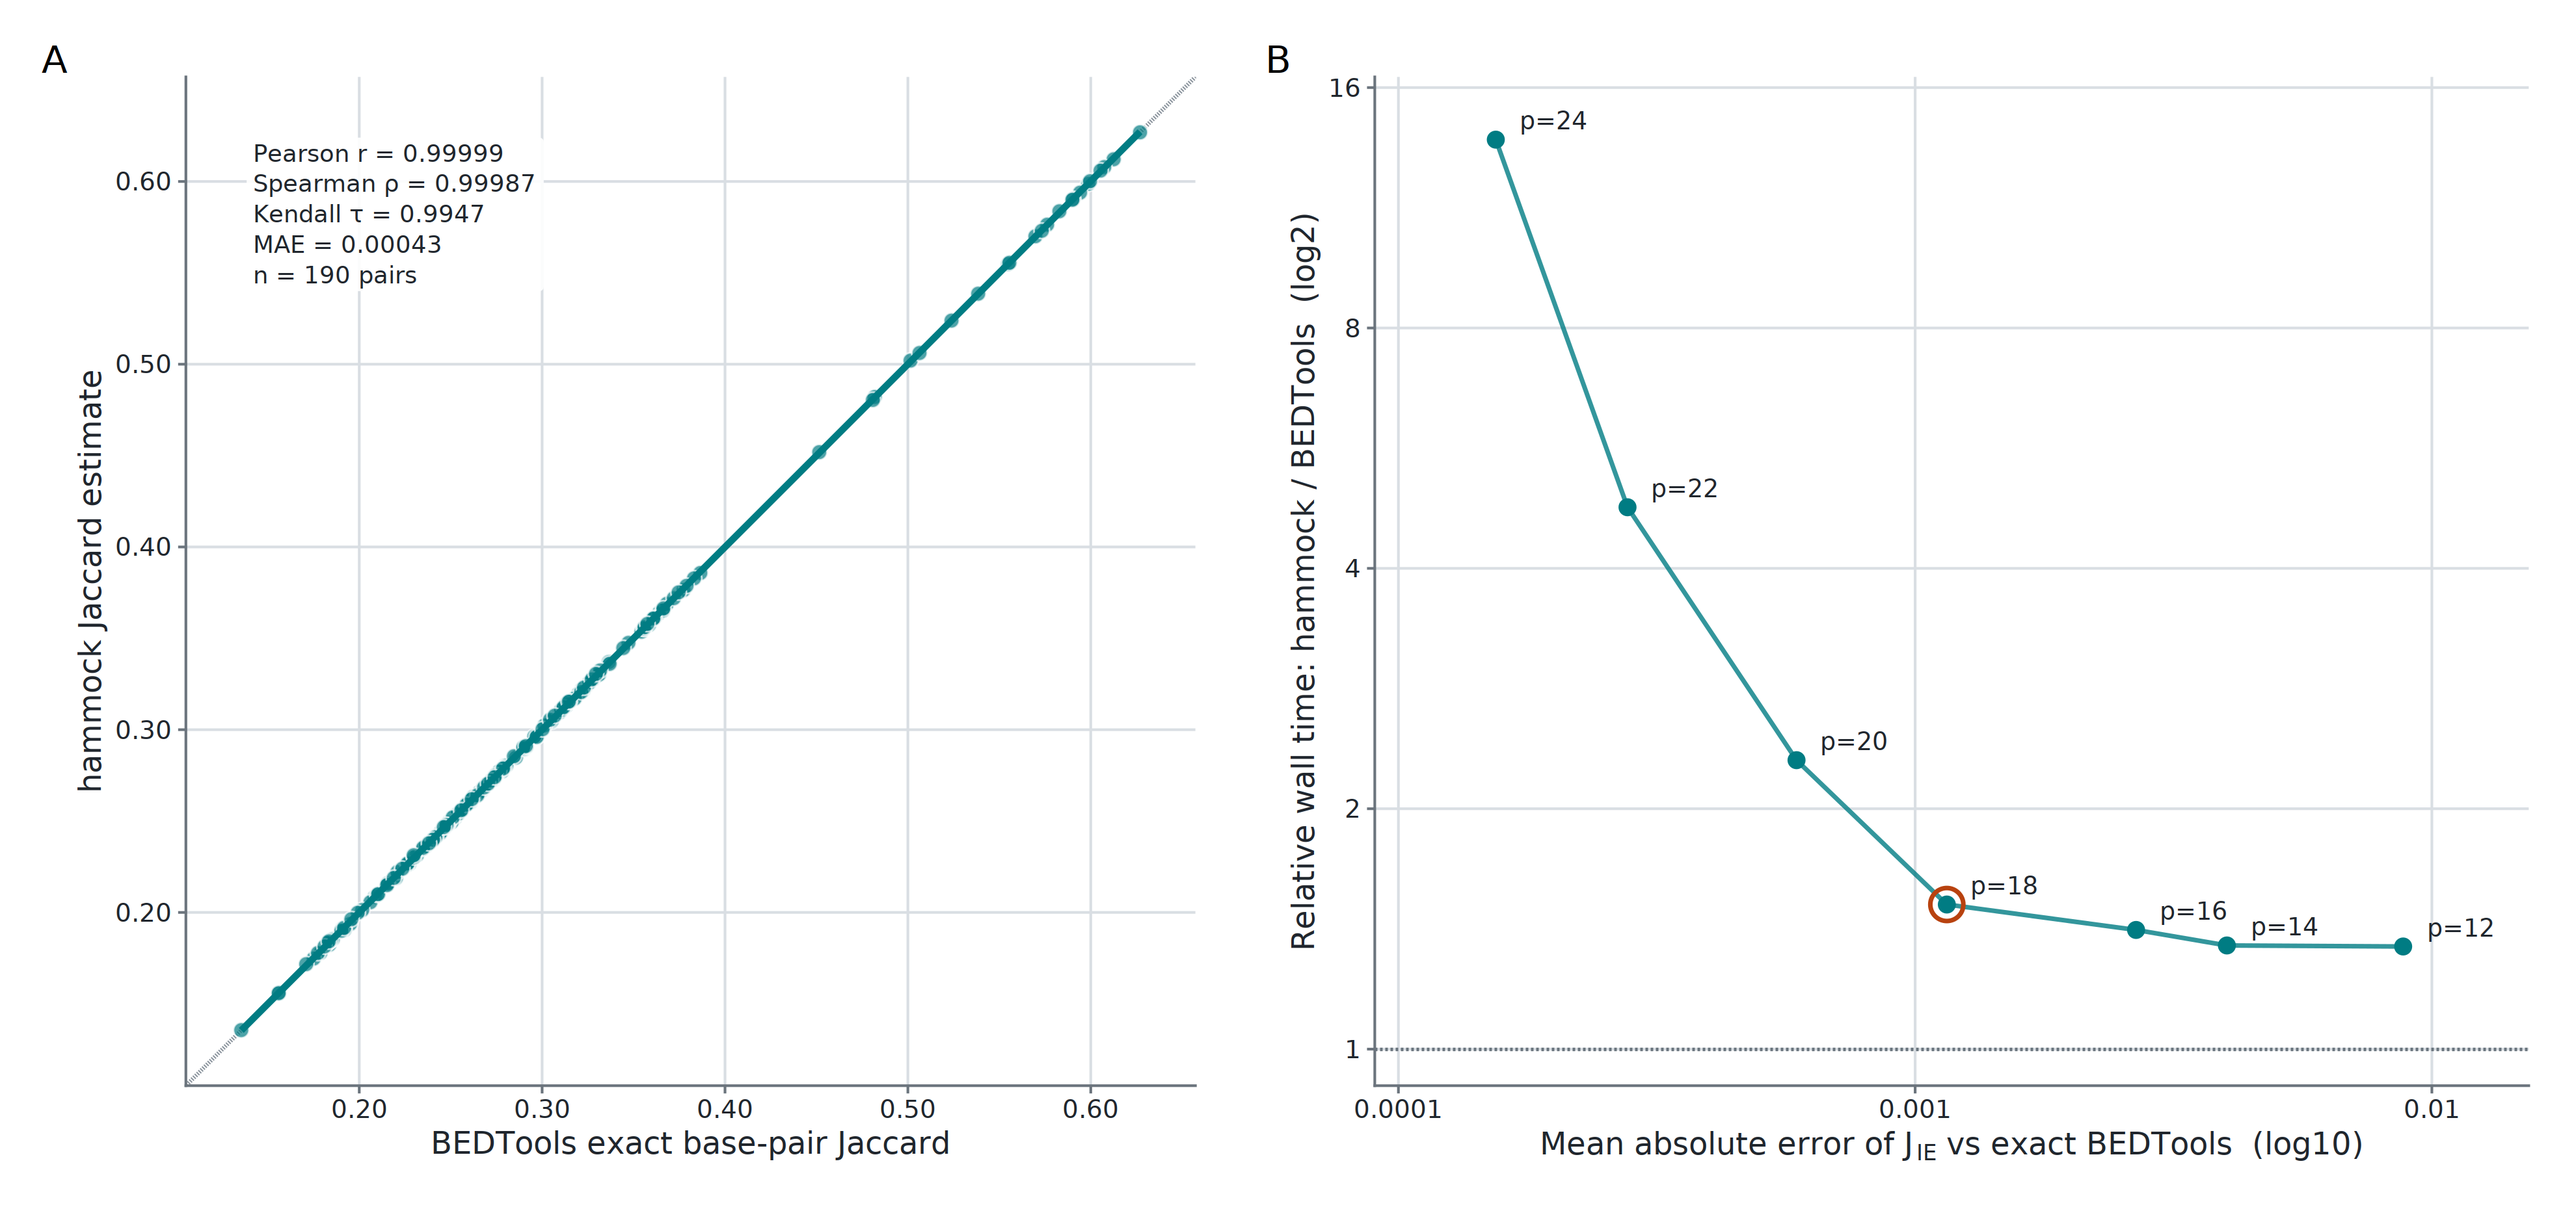
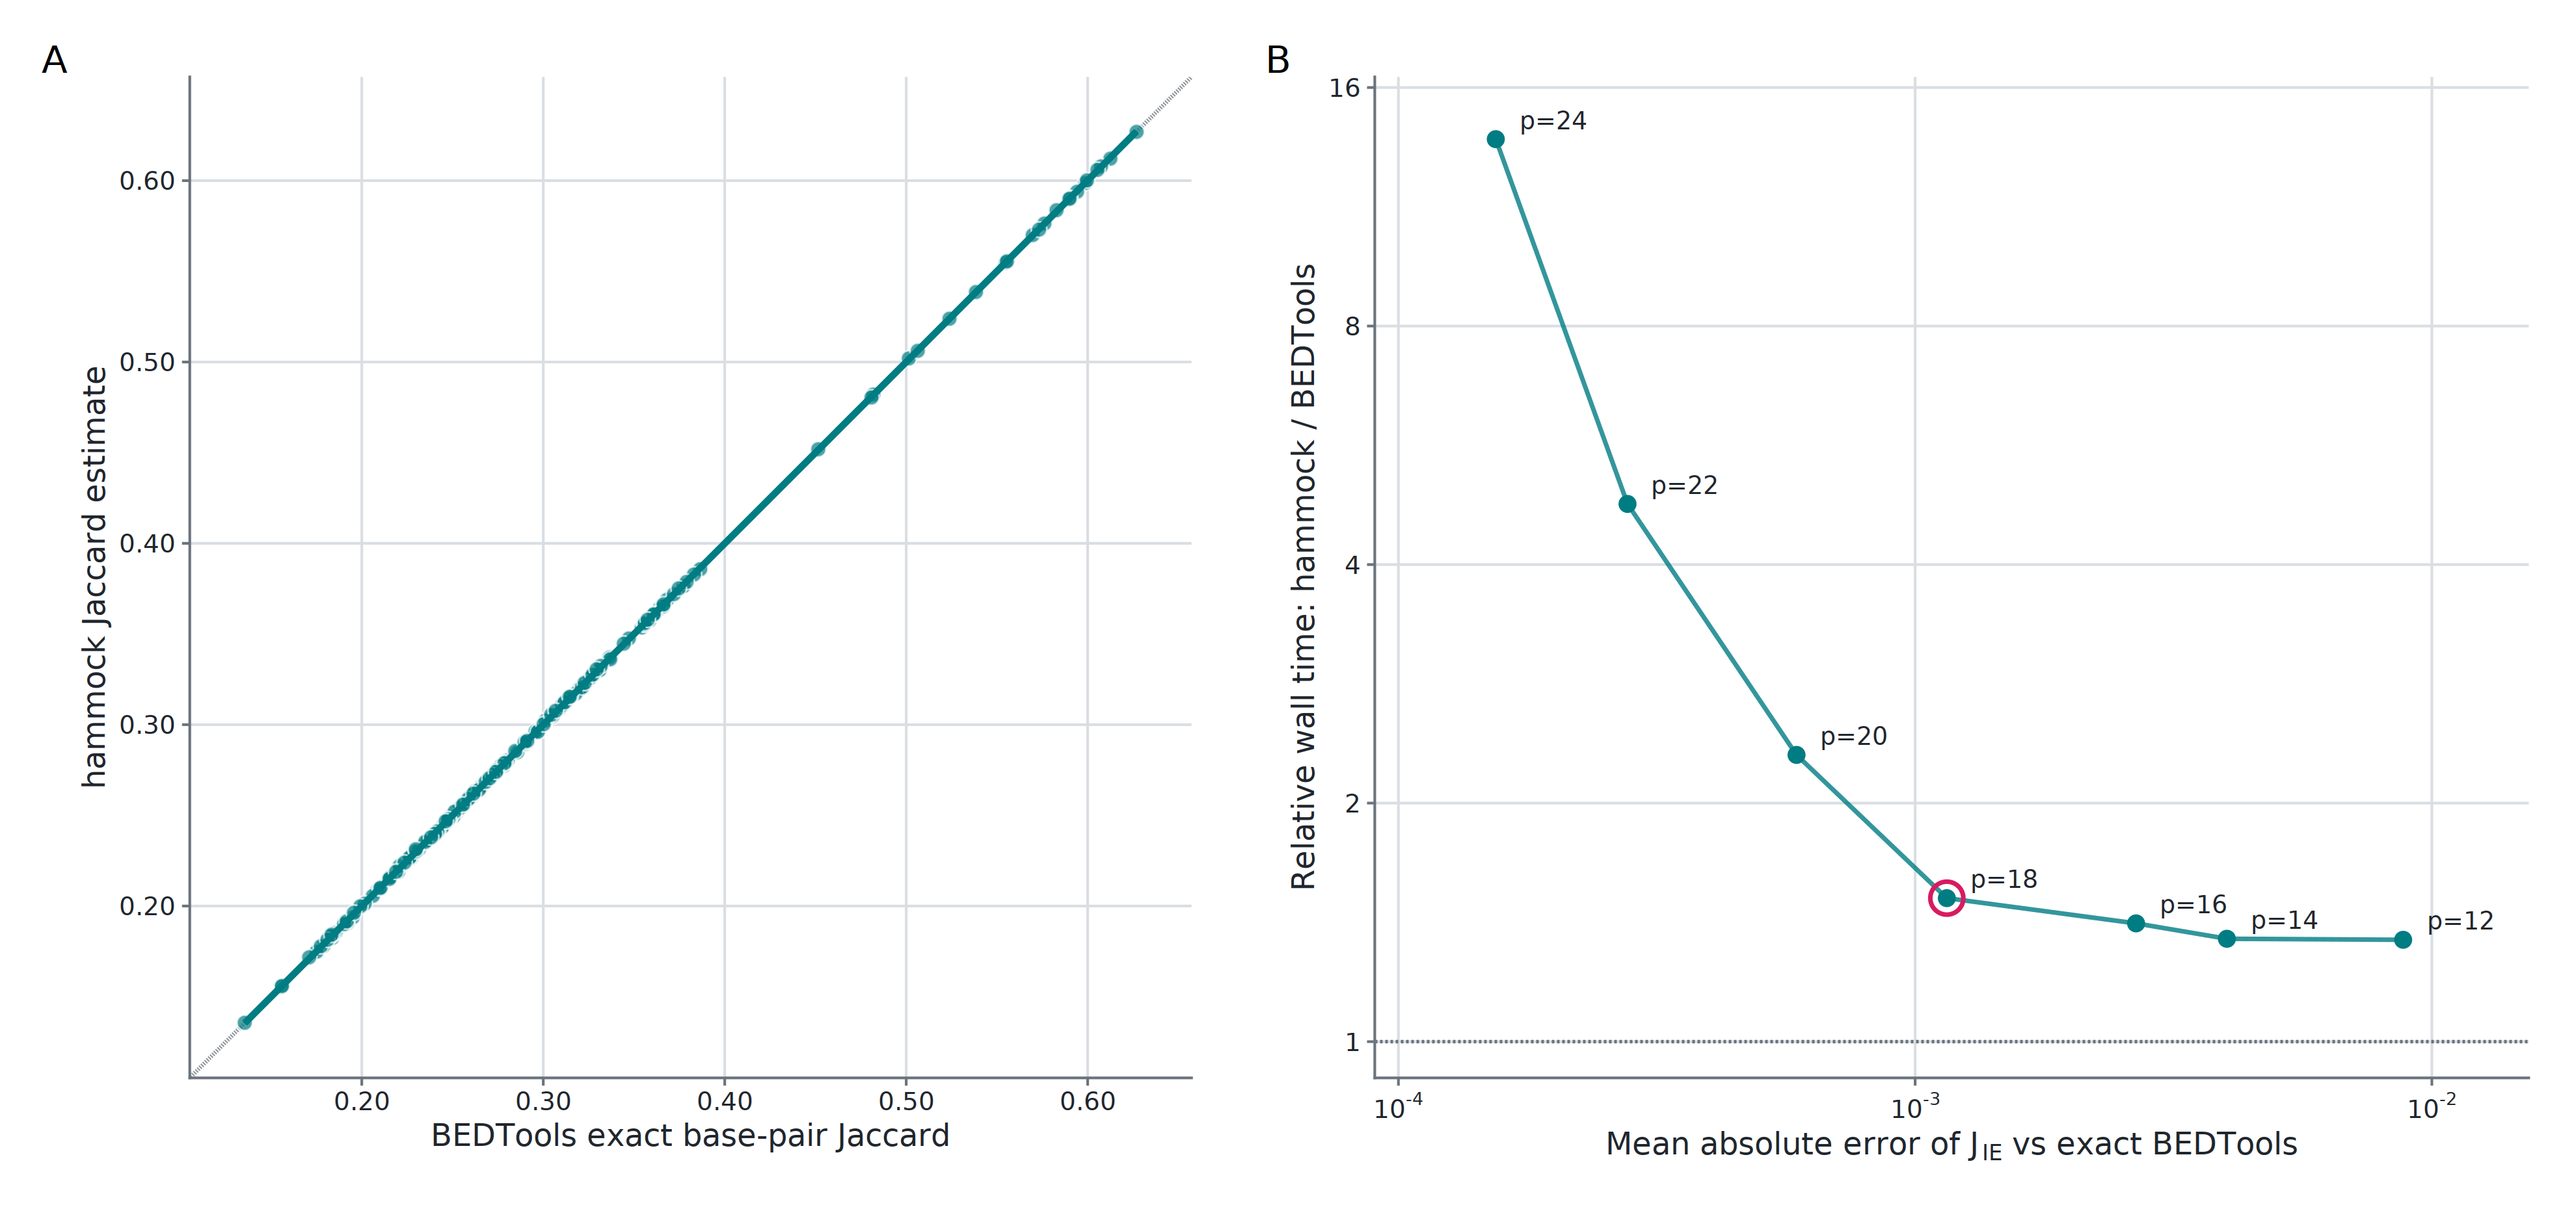
Simplify interval accuracy annotations

diff --git a/paper/draft.md b/paper/draft.md
@@ -87,7 +87,7 @@ Together, the synthetic and real-data benchmarks show that hammock improves the 
 
 ![Figure 4](figures/interval_accuracy.png)
 
-**Figure 4. Inclusion–exclusion estimates closely reproduce exact interval Jaccard, with a tunable precision–runtime tradeoff.** (A) Pairwise comparisons were performed on 20 Maurano fetal-tissue DNase hypersensitivity BED files, yielding 190 unique off-diagonal pairs; self-comparisons were excluded. At the hammock CLI default, HyperLogLog precision p=18, the inclusion–exclusion Jaccard estimate closely tracks exact BEDTools base-pair Jaccard over the observed off-diagonal range (MAE=0.00115, Pearson r=0.99991, Kendall τ=0.9883). (B) Accuracy and wall time were evaluated across p=12–24 on the same corpus using 16 threads and `subB=1.0`. The x-axis is MAE against exact BEDTools over the same 190 pairs on a base-10 logarithmic scale; lower values are more accurate and successive labeled ticks differ tenfold. The y-axis is median hammock wall time divided by median BEDTools wall time on a base-2 logarithmic scale; y=1 denotes equal runtime and each labeled tick doubles. Vertical ranges show the observed range among three hammock runs. Increasing precision reduced MAE from 0.00880 at p=12 to 0.000154 at p=24, while relative hammock wall time increased from 1.34× to 13.8×. Every point lies above y=1 because this 20-file corpus is below the approximately 64-file crossover at which reusable sketches amortize construction cost in the synthetic scaling benchmark. The circled p=18 point marks the CLI default.
+**Figure 4. Inclusion–exclusion estimates closely reproduce exact interval Jaccard, with a tunable precision–runtime tradeoff.** (A) Pairwise comparisons were performed on 20 Maurano fetal-tissue DNase hypersensitivity BED files, yielding 190 unique off-diagonal pairs; self-comparisons were excluded. At the hammock CLI default, HyperLogLog precision p=18, the inclusion–exclusion Jaccard estimate closely tracks exact BEDTools base-pair Jaccard over the observed off-diagonal range (MAE=0.00115, Pearson r=0.99991, Spearman ρ=0.99966, Kendall τ=0.9883). (B) Accuracy and wall time were evaluated across p=12–24 on the same corpus using 16 threads and `subB=1.0`. The x-axis is MAE against exact BEDTools over the same 190 pairs on a base-10 logarithmic scale; lower values are more accurate and successive labeled ticks differ tenfold. The y-axis is median hammock wall time divided by median BEDTools wall time on a base-2 logarithmic scale; y=1 denotes equal runtime and each labeled tick doubles. Vertical ranges show the observed range among three hammock runs. Increasing precision reduced MAE from 0.00880 at p=12 to 0.000154 at p=24, while relative hammock wall time increased from 1.34× to 13.8×. Every point lies above y=1 because this 20-file corpus is below the approximately 64-file crossover at which reusable sketches amortize construction cost in the synthetic scaling benchmark. The magenta circle marks p=18, the CLI default.
 
 **Figure 4 generation.** Both panels are generated by `paper/interval_accuracy/plot_interval_accuracy.R` with reference precision 18 and written to `paper/figures/interval_accuracy.png`. Panel A uses `docs/data/maurano_bedtools_ref.tsv` and `docs/data/hammock_hll_p18_jaccB_full.csv`. Panel B uses `docs/data/sweep_precision_maurano_p18_t16.csv`; accuracy is the MAE of `jaccard_similarity_ie`, and relative wall time is median hammock `wall_time` divided by median BEDTools wall time at each precision.
 
@@ -276,7 +276,7 @@ Caveat worth carrying: `jaccard_similarity_ie` is censored at zero by the non-ne
 
 ![Figure S1](figures/interval_accuracy_p21.png)
 
-**Figure S1. Inclusion–exclusion estimates closely reproduce exact interval Jaccard at higher HyperLogLog precision.** (A) Pairwise comparisons on 20 Maurano et al. fetal-tissue DNase hypersensitivity BED files yielded 190 unique off-diagonal pairs after self-comparisons and reciprocal duplicates were excluded. At p=21, `jaccard_similarity_ie` closely tracked exact BEDTools base-pair Jaccard (MAE=0.000430, Pearson r=0.99999, and Kendall τ=0.9947). (B) The precision–runtime analysis from Figure 4 is repeated for context. The x-axis is MAE on a base-10 logarithmic scale, where lower is more accurate and successive labeled ticks differ tenfold. The y-axis is hammock/BEDTools relative wall time on a base-2 logarithmic scale, where y=1 denotes equal runtime and each labeled tick doubles; vertical ranges show the three-run hammock range. The circled p=18 point marks the CLI default.
+**Figure S1. Inclusion–exclusion estimates closely reproduce exact interval Jaccard at higher HyperLogLog precision.** (A) Pairwise comparisons on 20 Maurano et al. fetal-tissue DNase hypersensitivity BED files yielded 190 unique off-diagonal pairs after self-comparisons and reciprocal duplicates were excluded. At p=21, `jaccard_similarity_ie` closely tracked exact BEDTools base-pair Jaccard (MAE=0.000430, Pearson r=0.99999, Spearman ρ=0.99987, and Kendall τ=0.9947). (B) The precision–runtime analysis from Figure 4 is repeated for context. The x-axis is MAE on a base-10 logarithmic scale, where lower is more accurate and successive labeled ticks differ tenfold. The y-axis is hammock/BEDTools relative wall time on a base-2 logarithmic scale, where y=1 denotes equal runtime and each labeled tick doubles; vertical ranges show the three-run hammock range. The magenta circle marks p=18, the CLI default.
 
 **Figure S1 generation.** `paper/interval_accuracy/plot_interval_accuracy.R` with its optional reference-precision argument set to 21, using `docs/data/maurano_bedtools_ref.tsv`, `docs/data/hammock_hll_p21_jaccB_full.csv`, and `docs/data/sweep_precision_maurano_p18_t16.csv`; output is `paper/figures/interval_accuracy_p21.png`.
 

diff --git a/paper/outline.md b/paper/outline.md
@@ -61,7 +61,7 @@ Together, the synthetic and real-data benchmarks show that hammock improves the 
 
 ![Figure 4](figures/interval_accuracy.png)
 
-**Figure 4. Inclusion–exclusion estimates closely reproduce exact interval Jaccard, with a tunable precision–runtime tradeoff.** (A) Pairwise comparisons were performed on 20 Maurano fetal-tissue DNase hypersensitivity BED files, yielding 190 unique off-diagonal pairs; self-comparisons were excluded. At the hammock CLI default, HyperLogLog precision p=18, the inclusion–exclusion Jaccard estimate closely tracks exact BEDTools base-pair Jaccard over the observed off-diagonal range (MAE=0.00115, Pearson r=0.99991, Kendall τ=0.9883). (B) Accuracy and wall time were evaluated across p=12–24 on the same corpus using 16 threads and `subB=1.0`. The x-axis is MAE against exact BEDTools over the same 190 pairs on a base-10 logarithmic scale; lower values are more accurate and successive labeled ticks differ tenfold. The y-axis is median hammock wall time divided by median BEDTools wall time on a base-2 logarithmic scale; y=1 denotes equal runtime and each labeled tick doubles. Vertical ranges show the observed range among three hammock runs. Increasing precision reduced MAE from 0.00880 at p=12 to 0.000154 at p=24, while relative hammock wall time increased from 1.34× to 13.8×. Every point lies above y=1 because this 20-file corpus is below the approximately 64-file crossover at which reusable sketches amortize construction cost in the synthetic scaling benchmark. The circled p=18 point marks the CLI default.
+**Figure 4. Inclusion–exclusion estimates closely reproduce exact interval Jaccard, with a tunable precision–runtime tradeoff.** (A) Pairwise comparisons were performed on 20 Maurano fetal-tissue DNase hypersensitivity BED files, yielding 190 unique off-diagonal pairs; self-comparisons were excluded. At the hammock CLI default, HyperLogLog precision p=18, the inclusion–exclusion Jaccard estimate closely tracks exact BEDTools base-pair Jaccard over the observed off-diagonal range (MAE=0.00115, Pearson r=0.99991, Spearman ρ=0.99966, Kendall τ=0.9883). (B) Accuracy and wall time were evaluated across p=12–24 on the same corpus using 16 threads and `subB=1.0`. The x-axis is MAE against exact BEDTools over the same 190 pairs on a base-10 logarithmic scale; lower values are more accurate and successive labeled ticks differ tenfold. The y-axis is median hammock wall time divided by median BEDTools wall time on a base-2 logarithmic scale; y=1 denotes equal runtime and each labeled tick doubles. Vertical ranges show the observed range among three hammock runs. Increasing precision reduced MAE from 0.00880 at p=12 to 0.000154 at p=24, while relative hammock wall time increased from 1.34× to 13.8×. Every point lies above y=1 because this 20-file corpus is below the approximately 64-file crossover at which reusable sketches amortize construction cost in the synthetic scaling benchmark. The magenta circle marks p=18, the CLI default.
 
 **Figure 4 generation.** Both panels are generated by `paper/interval_accuracy/plot_interval_accuracy.R` with reference precision 18 and written to `paper/figures/interval_accuracy.png`. Panel A uses `docs/data/maurano_bedtools_ref.tsv` and `docs/data/hammock_hll_p18_jaccB_full.csv`. Panel B uses `docs/data/sweep_precision_maurano_p18_t16.csv`; accuracy is the MAE of `jaccard_similarity_ie`, and relative wall time is median hammock `wall_time` divided by median BEDTools wall time at each precision.
 
@@ -100,7 +100,7 @@ Together, the synthetic and real-data benchmarks show that hammock improves the 
 
 ![Figure S1](figures/interval_accuracy_p21.png)
 
-**Figure S1. Inclusion–exclusion estimates closely reproduce exact interval Jaccard at higher HyperLogLog precision.** (A) Pairwise comparisons on 20 Maurano et al. fetal-tissue DNase hypersensitivity BED files yielded 190 unique off-diagonal pairs after self-comparisons and reciprocal duplicates were excluded. At p=21, `jaccard_similarity_ie` closely tracked exact BEDTools base-pair Jaccard (MAE=0.000430, Pearson r=0.99999, and Kendall τ=0.9947). (B) The precision–runtime analysis from Figure 4 is repeated for context. The x-axis is MAE on a base-10 logarithmic scale, where lower is more accurate and successive labeled ticks differ tenfold. The y-axis is hammock/BEDTools relative wall time on a base-2 logarithmic scale, where y=1 denotes equal runtime and each labeled tick doubles; vertical ranges show the three-run hammock range. The circled p=18 point marks the CLI default.
+**Figure S1. Inclusion–exclusion estimates closely reproduce exact interval Jaccard at higher HyperLogLog precision.** (A) Pairwise comparisons on 20 Maurano et al. fetal-tissue DNase hypersensitivity BED files yielded 190 unique off-diagonal pairs after self-comparisons and reciprocal duplicates were excluded. At p=21, `jaccard_similarity_ie` closely tracked exact BEDTools base-pair Jaccard (MAE=0.000430, Pearson r=0.99999, Spearman ρ=0.99987, and Kendall τ=0.9947). (B) The precision–runtime analysis from Figure 4 is repeated for context. The x-axis is MAE on a base-10 logarithmic scale, where lower is more accurate and successive labeled ticks differ tenfold. The y-axis is hammock/BEDTools relative wall time on a base-2 logarithmic scale, where y=1 denotes equal runtime and each labeled tick doubles; vertical ranges show the three-run hammock range. The magenta circle marks p=18, the CLI default.
 
 **Figure S1 generation.** `paper/interval_accuracy/plot_interval_accuracy.R` with its optional reference-precision argument set to 21, using `docs/data/maurano_bedtools_ref.tsv`, `docs/data/hammock_hll_p21_jaccB_full.csv`, and `docs/data/sweep_precision_maurano_p18_t16.csv`; output is `paper/figures/interval_accuracy_p21.png`.
 
